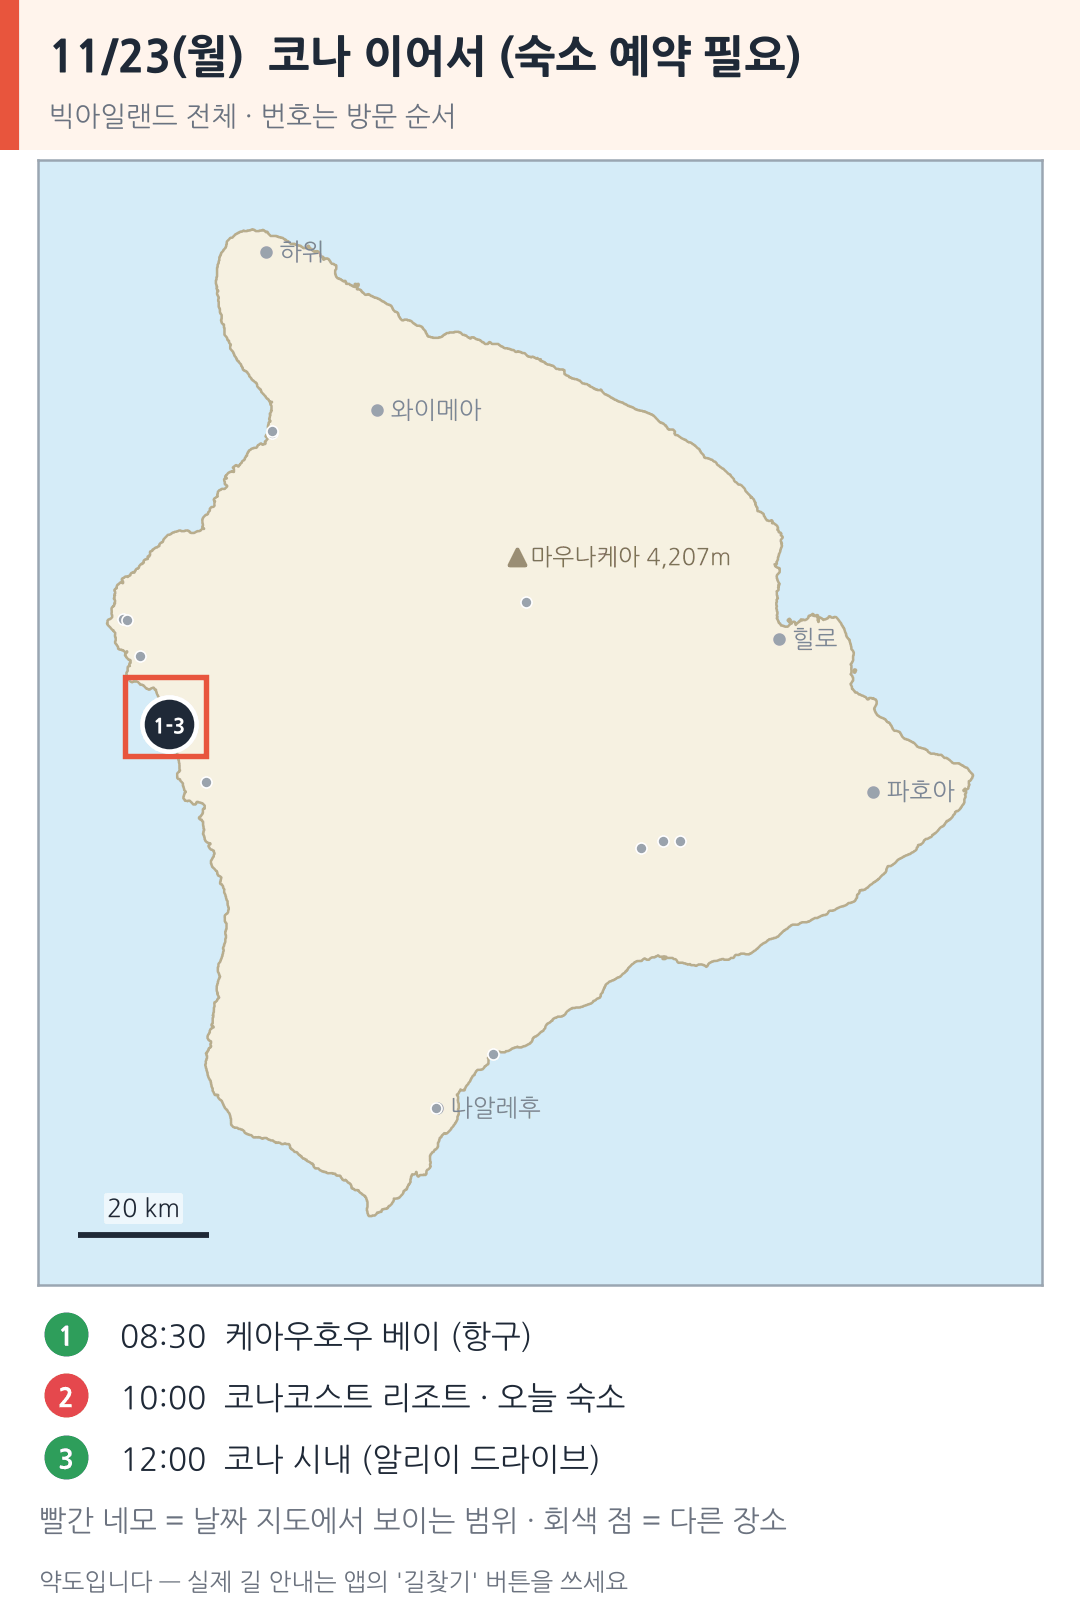
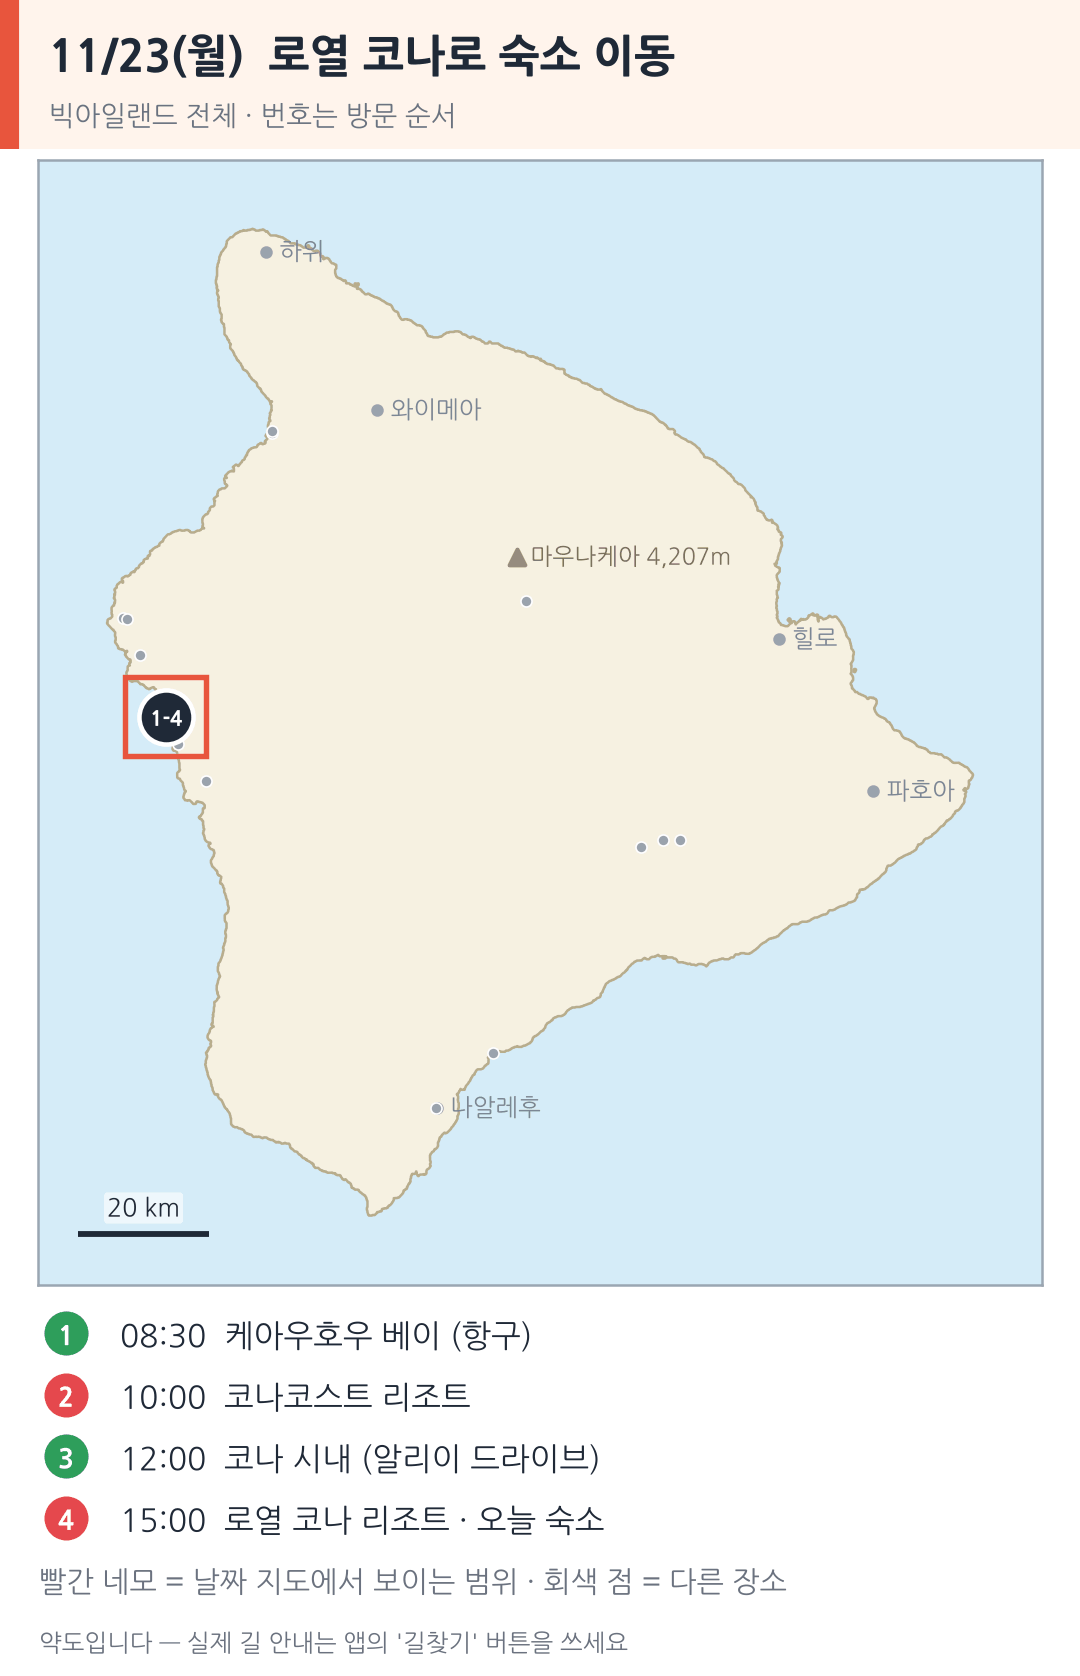
11/23~25 숙소를 로열 코나 리조트로 (웨스틴 대신)
- 숙소 목록·11/23 체크인·11/25 체크아웃을 로열 코나로, 체크인 시간은 추정 표시
- 11/24 코나 시내 걸어서 다니는 일정, 11/25 공항 14:45 택시·우버
- 로열 코나 장소 추가 (좌표 추정), 11/23~25 지도 다시 만듦

Claude-Session: https://claude.ai/code/session_01TtVcSoKscqhBRvKoZFYa3E

diff --git a/sw.js b/sw.js
@@ -3,7 +3,7 @@
 // (파일을 고친 뒤 `node tools/build-precache.mjs` 를 실행하면 버전과 목록이 바뀐다 — 직접 고치지 말 것).
 
 /* PRECACHE:BEGIN */
-const VERSION = '0b3b-2da1';
+const VERSION = '2fef-f64a';
 const FILES = [
   ['index.html', '37595f72'],
   ['manifest.webmanifest', '433937d9'],
@@ -39,15 +39,15 @@ const FILES = [
   ['js/wallet.js', '6127bc56'],
   ['js/weather.js', 'f8590ea6'],
   ['vendor/qrcode.js', 'ea91d711'],
-  ['data/checklists.json', 'cb47a2e6'],
+  ['data/checklists.json', '47235c2e'],
   ['data/eats.json', '0616e132'],
   ['data/ideas.json', '1676e2dc'],
-  ['data/maps.json', '0b52b9fc'],
+  ['data/maps.json', '07f5afe2'],
   ['data/photos.json', '203050d9'],
   ['data/phrases.json', '222339e8'],
   ['data/secret.enc', 'b6362c2a'],
   ['data/transit.json', 'a4f530fd'],
-  ['data/trip.json', '543fd761'],
+  ['data/trip.json', '0636d3c1'],
   ['data/videos.json', 'f543b457'],
   ['maps/big-island.png', 'a8e3a173'],
   ['maps/day-1115-wide.png', '89913008'],
@@ -66,12 +66,12 @@ const FILES = [
   ['maps/day-1121.png', 'a07f3207'],
   ['maps/day-1122-wide.png', '7c9746c7'],
   ['maps/day-1122.png', '86e11a37'],
-  ['maps/day-1123-wide.png', '6aef2001'],
-  ['maps/day-1123.png', 'b98b5021'],
-  ['maps/day-1124-wide.png', 'fb6dac94'],
-  ['maps/day-1124.png', '9a1a734e'],
-  ['maps/day-1125-wide.png', '2e3959a7'],
-  ['maps/day-1125.png', '38d283ba'],
+  ['maps/day-1123-wide.png', '5b3b2f7e'],
+  ['maps/day-1123.png', '0ed90a94'],
+  ['maps/day-1124-wide.png', 'adf75040'],
+  ['maps/day-1124.png', '2f5ce2cb'],
+  ['maps/day-1125-wide.png', 'a238d251'],
+  ['maps/day-1125.png', '2a203ddf'],
   ['maps/day-1126-wide.png', 'c6447822'],
   ['maps/day-1126.png', 'ff2c2622'],
   ['maps/day-1127-wide.png', '6a1799ce'],
